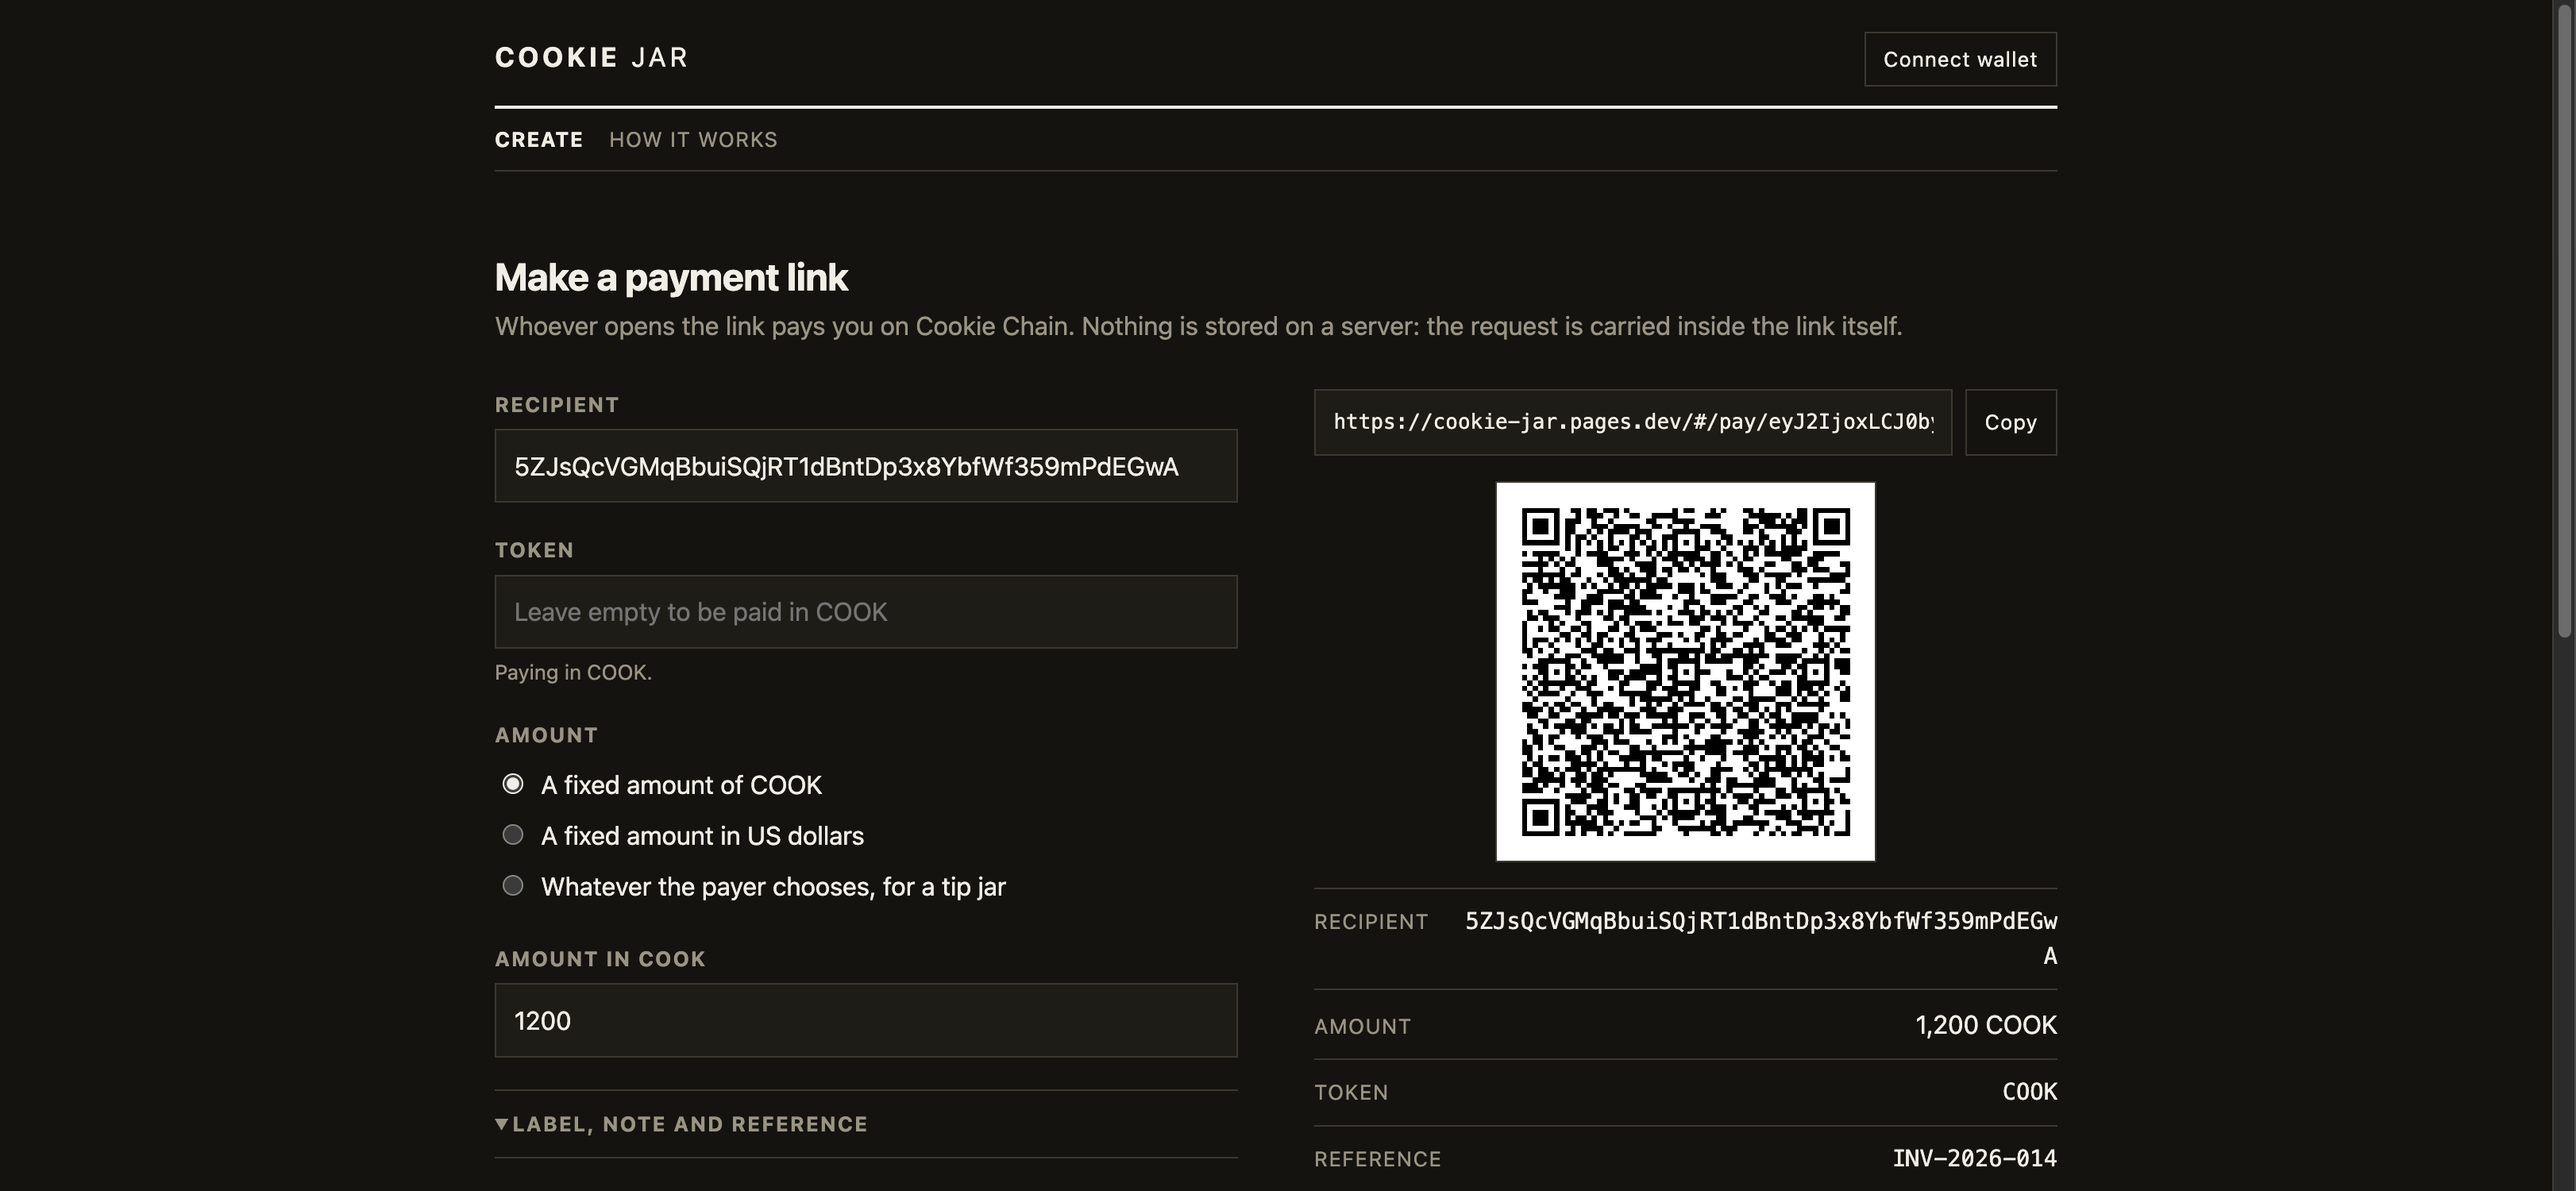
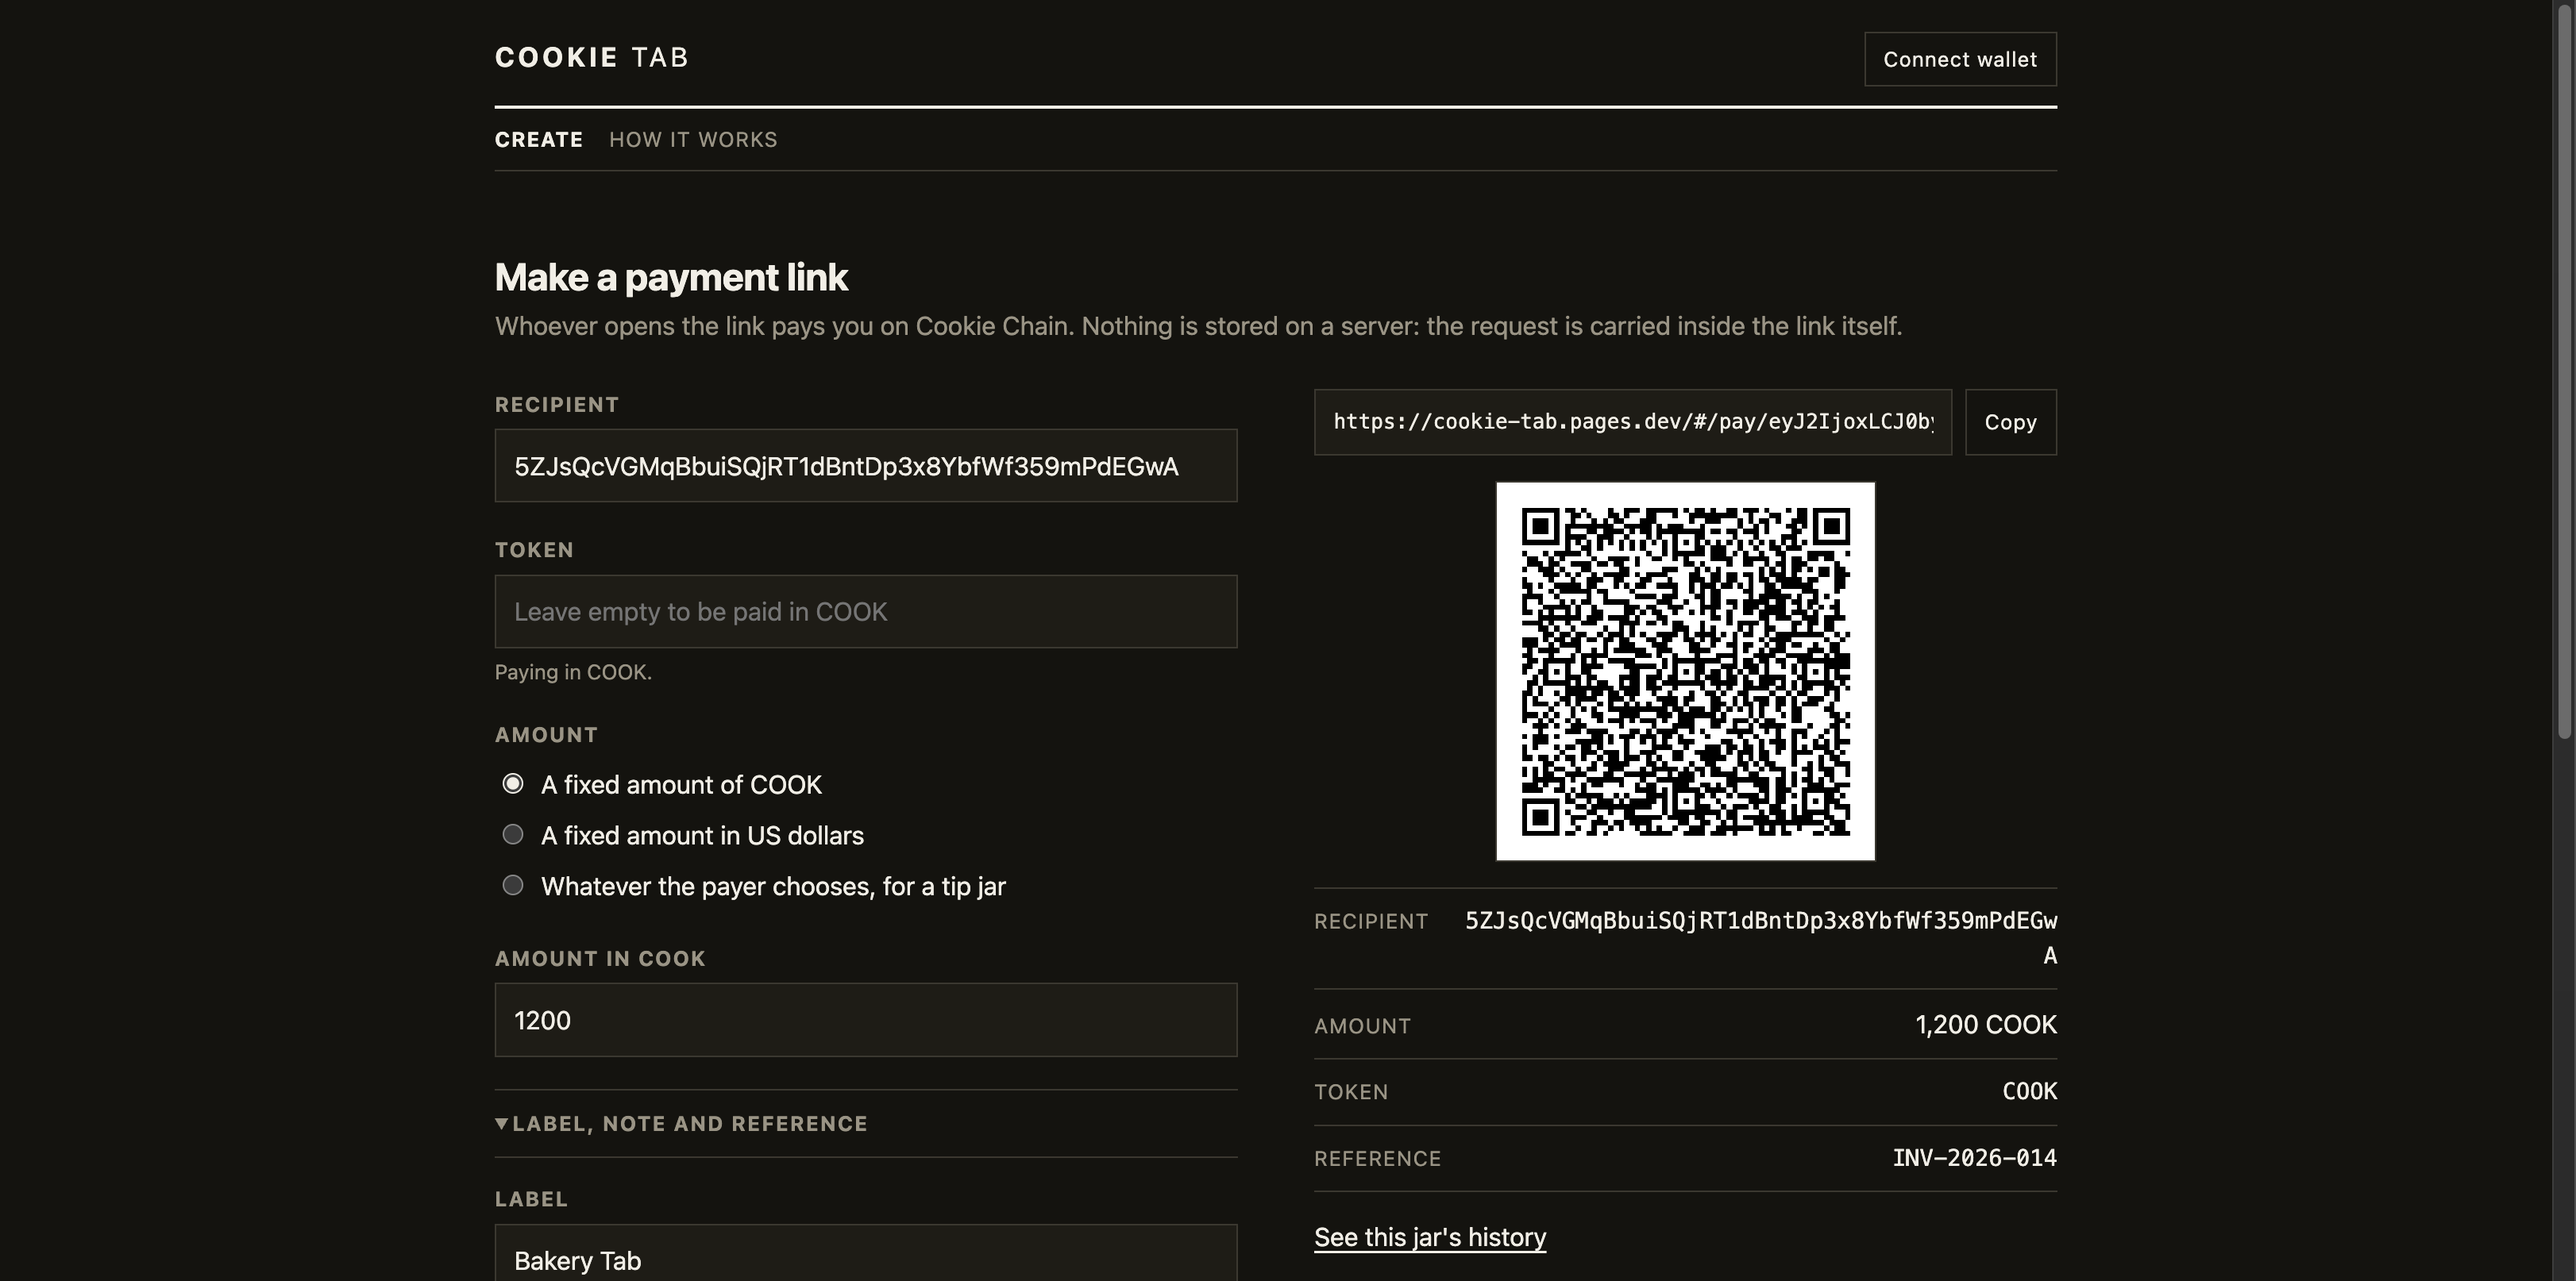
Confirm payments by polling, and refresh the submission screenshots
The public websocket endpoint, wss.cookiescan.io, presents a certificate issued for another host, so no browser opens it. `connection.confirmTransaction` waits on a websocket signature notification that never arrives on this chain, then reports a landed payment as expired once the blockhash ages out, and the page put the Pay button back in front of the payer. The Pay page now polls `getSignatureStatuses` over HTTPS through `signatureOutcome`, which answers within a couple of seconds and says whether the transaction failed on chain; `waitForSignature`, which the swap panel uses, is the same poll with the failure raised as an error.

The three screenshots under docs/submission are recaptured from the live site under the app's current name.

diff --git a/src/lib/chain.ts b/src/lib/chain.ts
@@ -13,24 +13,41 @@ export function getConnection(): Connection {
 }
 
 /**
- * Wait for a signature by polling its status. The aggregators return a transaction carrying their
- * own blockhash and do not always say which, so there is no blockhash to expire against — a poll
- * with a deadline is what is left.
+ * Poll a signature over HTTP until the chain reports it confirmed, and say whether it failed there.
+ *
+ * Polling rather than a subscription: the public websocket endpoint presents a certificate for
+ * another host, so no browser opens it, and a confirmation that waits on a signature notification
+ * never hears one — it would sit until the blockhash expired and then report a landed payment as
+ * expired. `getSignatureStatuses` over plain HTTPS answers within a couple of seconds.
+ */
+export async function signatureOutcome(
+  connection: Connection,
+  signature: string,
+  timeoutMs = 60_000,
+): Promise<{ err: unknown | null }> {
+  const deadline = Date.now() + timeoutMs;
+  while (Date.now() < deadline) {
+    const { value } = await connection.getSignatureStatuses([signature]);
+    const status = value[0];
+    if (status?.err) return { err: status.err };
+    if (status?.confirmationStatus === "confirmed" || status?.confirmationStatus === "finalized") {
+      return { err: null };
+    }
+    await new Promise((resolve) => setTimeout(resolve, 1_500));
+  }
+  throw new Error("the transaction was sent but had not confirmed after a minute — check the explorer");
+}
+
+/**
+ * Wait for a signature, throwing if it failed on chain. The aggregators return a transaction
+ * carrying their own blockhash and do not always say which, so there is no blockhash to expire
+ * against — a poll with a deadline is what is left.
  */
 export async function waitForSignature(
   connection: Connection,
   signature: string,
   timeoutMs = 60_000,
 ): Promise<void> {
-  const deadline = Date.now() + timeoutMs;
-  while (Date.now() < deadline) {
-    const { value } = await connection.getSignatureStatuses([signature]);
-    const status = value[0];
-    if (status?.err) throw new Error(`the transaction failed on chain: ${JSON.stringify(status.err)}`);
-    if (status?.confirmationStatus === "confirmed" || status?.confirmationStatus === "finalized") {
-      return;
-    }
-    await new Promise((resolve) => setTimeout(resolve, 1_500));
-  }
-  throw new Error("the transaction was sent but had not confirmed after a minute — check the explorer");
+  const { err } = await signatureOutcome(connection, signature, timeoutMs);
+  if (err) throw new Error(`the transaction failed on chain: ${JSON.stringify(err)}`);
 }

diff --git a/src/pages/Pay.test.tsx b/src/pages/Pay.test.tsx
@@ -18,7 +18,8 @@ const stubs = vi.hoisted(() => ({
   signTransaction: vi.fn(async (tx: unknown) => ({ ...(tx as object), serialize: () => new Uint8Array([1]) })),
   /** This page broadcasts the signed bytes to the Cookie Chain RPC itself. */
   sendRawTransaction: vi.fn(async () => "5SzTvsSQDq1PJyS5dR9hxYyTHrTQPJn9pQeSCHbdVMpU"),
-  confirmTransaction: vi.fn(async () => ({ value: { err: null as unknown } })),
+  /** The HTTP status poll that stands in for a websocket this chain cannot serve. */
+  signatureOutcome: vi.fn(async () => ({ err: null as unknown })),
   fetchToken: vi.fn(async () => null as { symbol: string; priceUsd: number | null } | null),
   recipientAccountRent: vi.fn(async () => 0n),
 }));
@@ -34,10 +35,10 @@ vi.mock("@solana/wallet-adapter-react", () => ({
 
 vi.mock("../lib/chain", () => ({
   getConnection: () => ({
-    confirmTransaction: stubs.confirmTransaction,
     sendRawTransaction: stubs.sendRawTransaction,
     getLatestBlockhash: vi.fn(async () => ({ blockhash: "abc", lastValidBlockHeight: 1 })),
   }),
+  signatureOutcome: stubs.signatureOutcome,
   waitForSignature: vi.fn(async () => undefined),
 }));
 
@@ -80,7 +81,7 @@ afterEach(() => {
   cleanup();
   vi.clearAllMocks();
   stubs.fetchToken.mockResolvedValue(null);
-  stubs.confirmTransaction.mockResolvedValue({ value: { err: null } });
+  stubs.signatureOutcome.mockResolvedValue({ err: null });
   stubs.recipientAccountRent.mockResolvedValue(0n);
 });
 
@@ -141,9 +142,7 @@ describe("the ticker beside the amount", () => {
 
 describe("a transaction that lands and fails on chain", () => {
   it("is reported as a failure, never as Paid", async () => {
-    stubs.confirmTransaction.mockResolvedValue({
-      value: { err: { InstructionError: [1, { Custom: 1 }] } },
-    });
+    stubs.signatureOutcome.mockResolvedValue({ err: { InstructionError: [1, { Custom: 1 }] } });
     const payload = encodeRequest({ to: RECIPIENT, label: "Invoice", amount: "10" });
     render(<Pay payload={payload} />);
 

diff --git a/src/pages/Pay.tsx b/src/pages/Pay.tsx
@@ -4,7 +4,7 @@ import { useCallback, useEffect, useMemo, useState } from "react";
 
 import { SwapPanel } from "../components/SwapPanel";
 import { WalletPicker } from "../components/WalletPicker";
-import { getConnection } from "../lib/chain";
+import { getConnection, signatureOutcome } from "../lib/chain";
 import {
   BRIDGE_URL,
   COOK_DECIMALS,
@@ -219,19 +219,14 @@ export function Pay({ payload }: { payload: string }): JSX.Element {
       if (!signTransaction) throw new Error("this wallet cannot sign transactions");
       const signed = await signTransaction(built.transaction);
       const sent = await connection.sendRawTransaction(signed.serialize());
-      const confirmation = await connection.confirmTransaction(
-        {
-          signature: sent,
-          blockhash: fresh.blockhash,
-          lastValidBlockHeight: fresh.lastValidBlockHeight,
-        },
-        "confirmed",
-      );
       setSignature(sent);
+      // Confirmation is polled over HTTP (see `signatureOutcome`); this chain's websocket endpoint
+      // cannot be opened from a browser, so a subscription would never hear the signature.
+      const landed = await signatureOutcome(connection, sent);
       // A transaction can land on chain and still fail there. The signature is real either way, so it
       // is kept for the explorer link, but only a clean confirmation is a payment.
-      if (confirmation.value.err) {
-        setChainError(JSON.stringify(confirmation.value.err));
+      if (landed.err) {
+        setChainError(JSON.stringify(landed.err));
         setStage("failed");
         return;
       }
